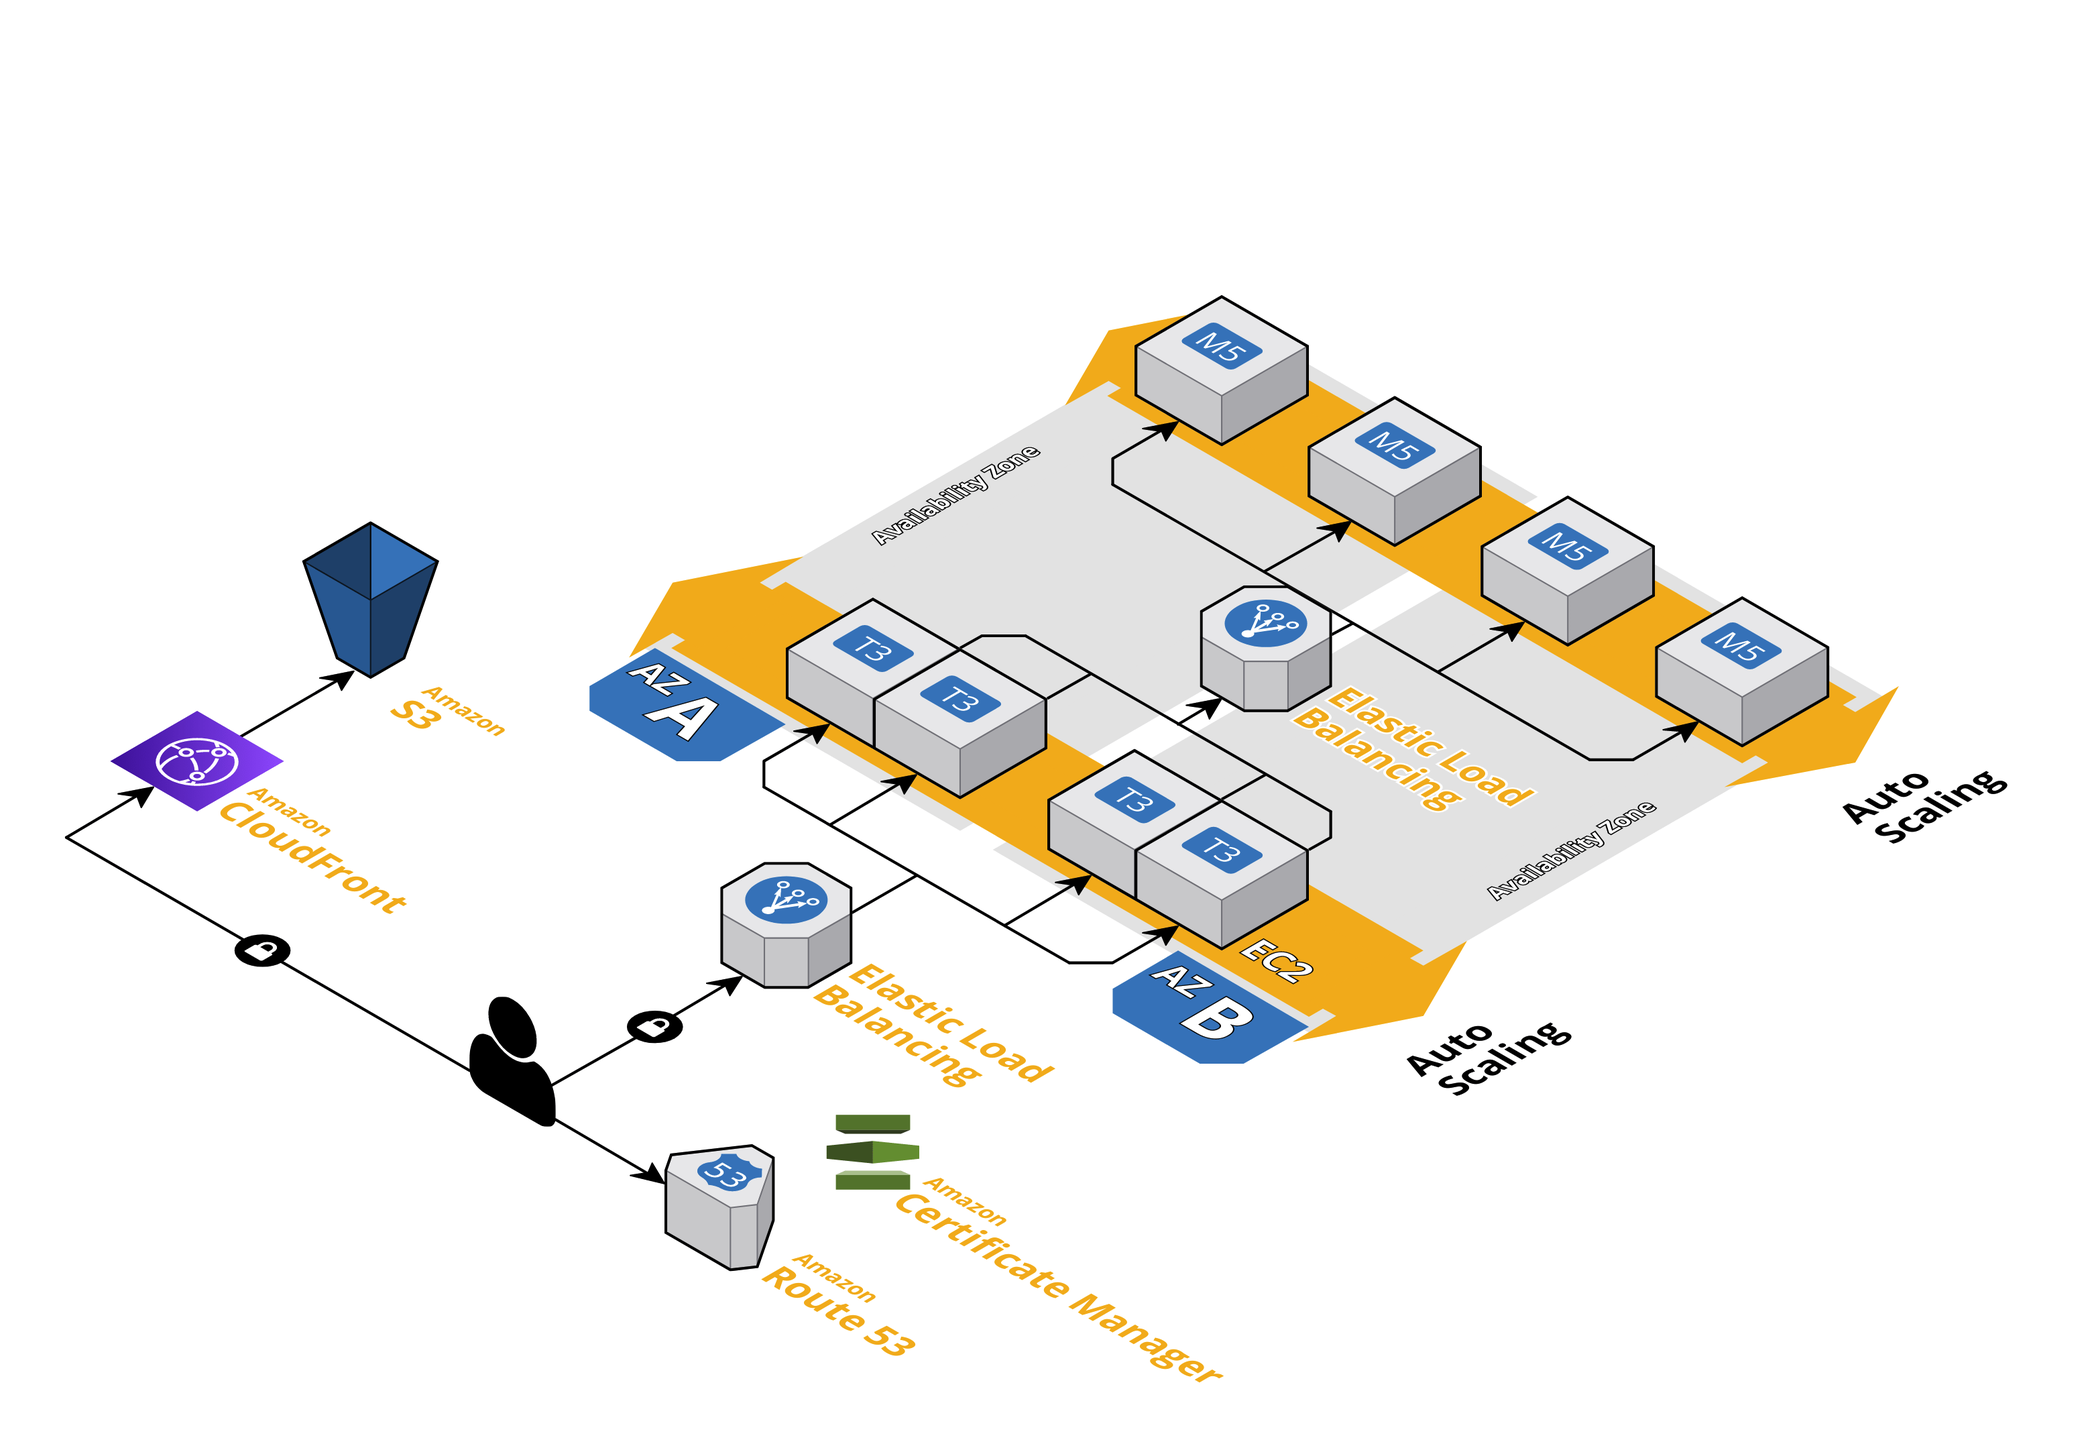
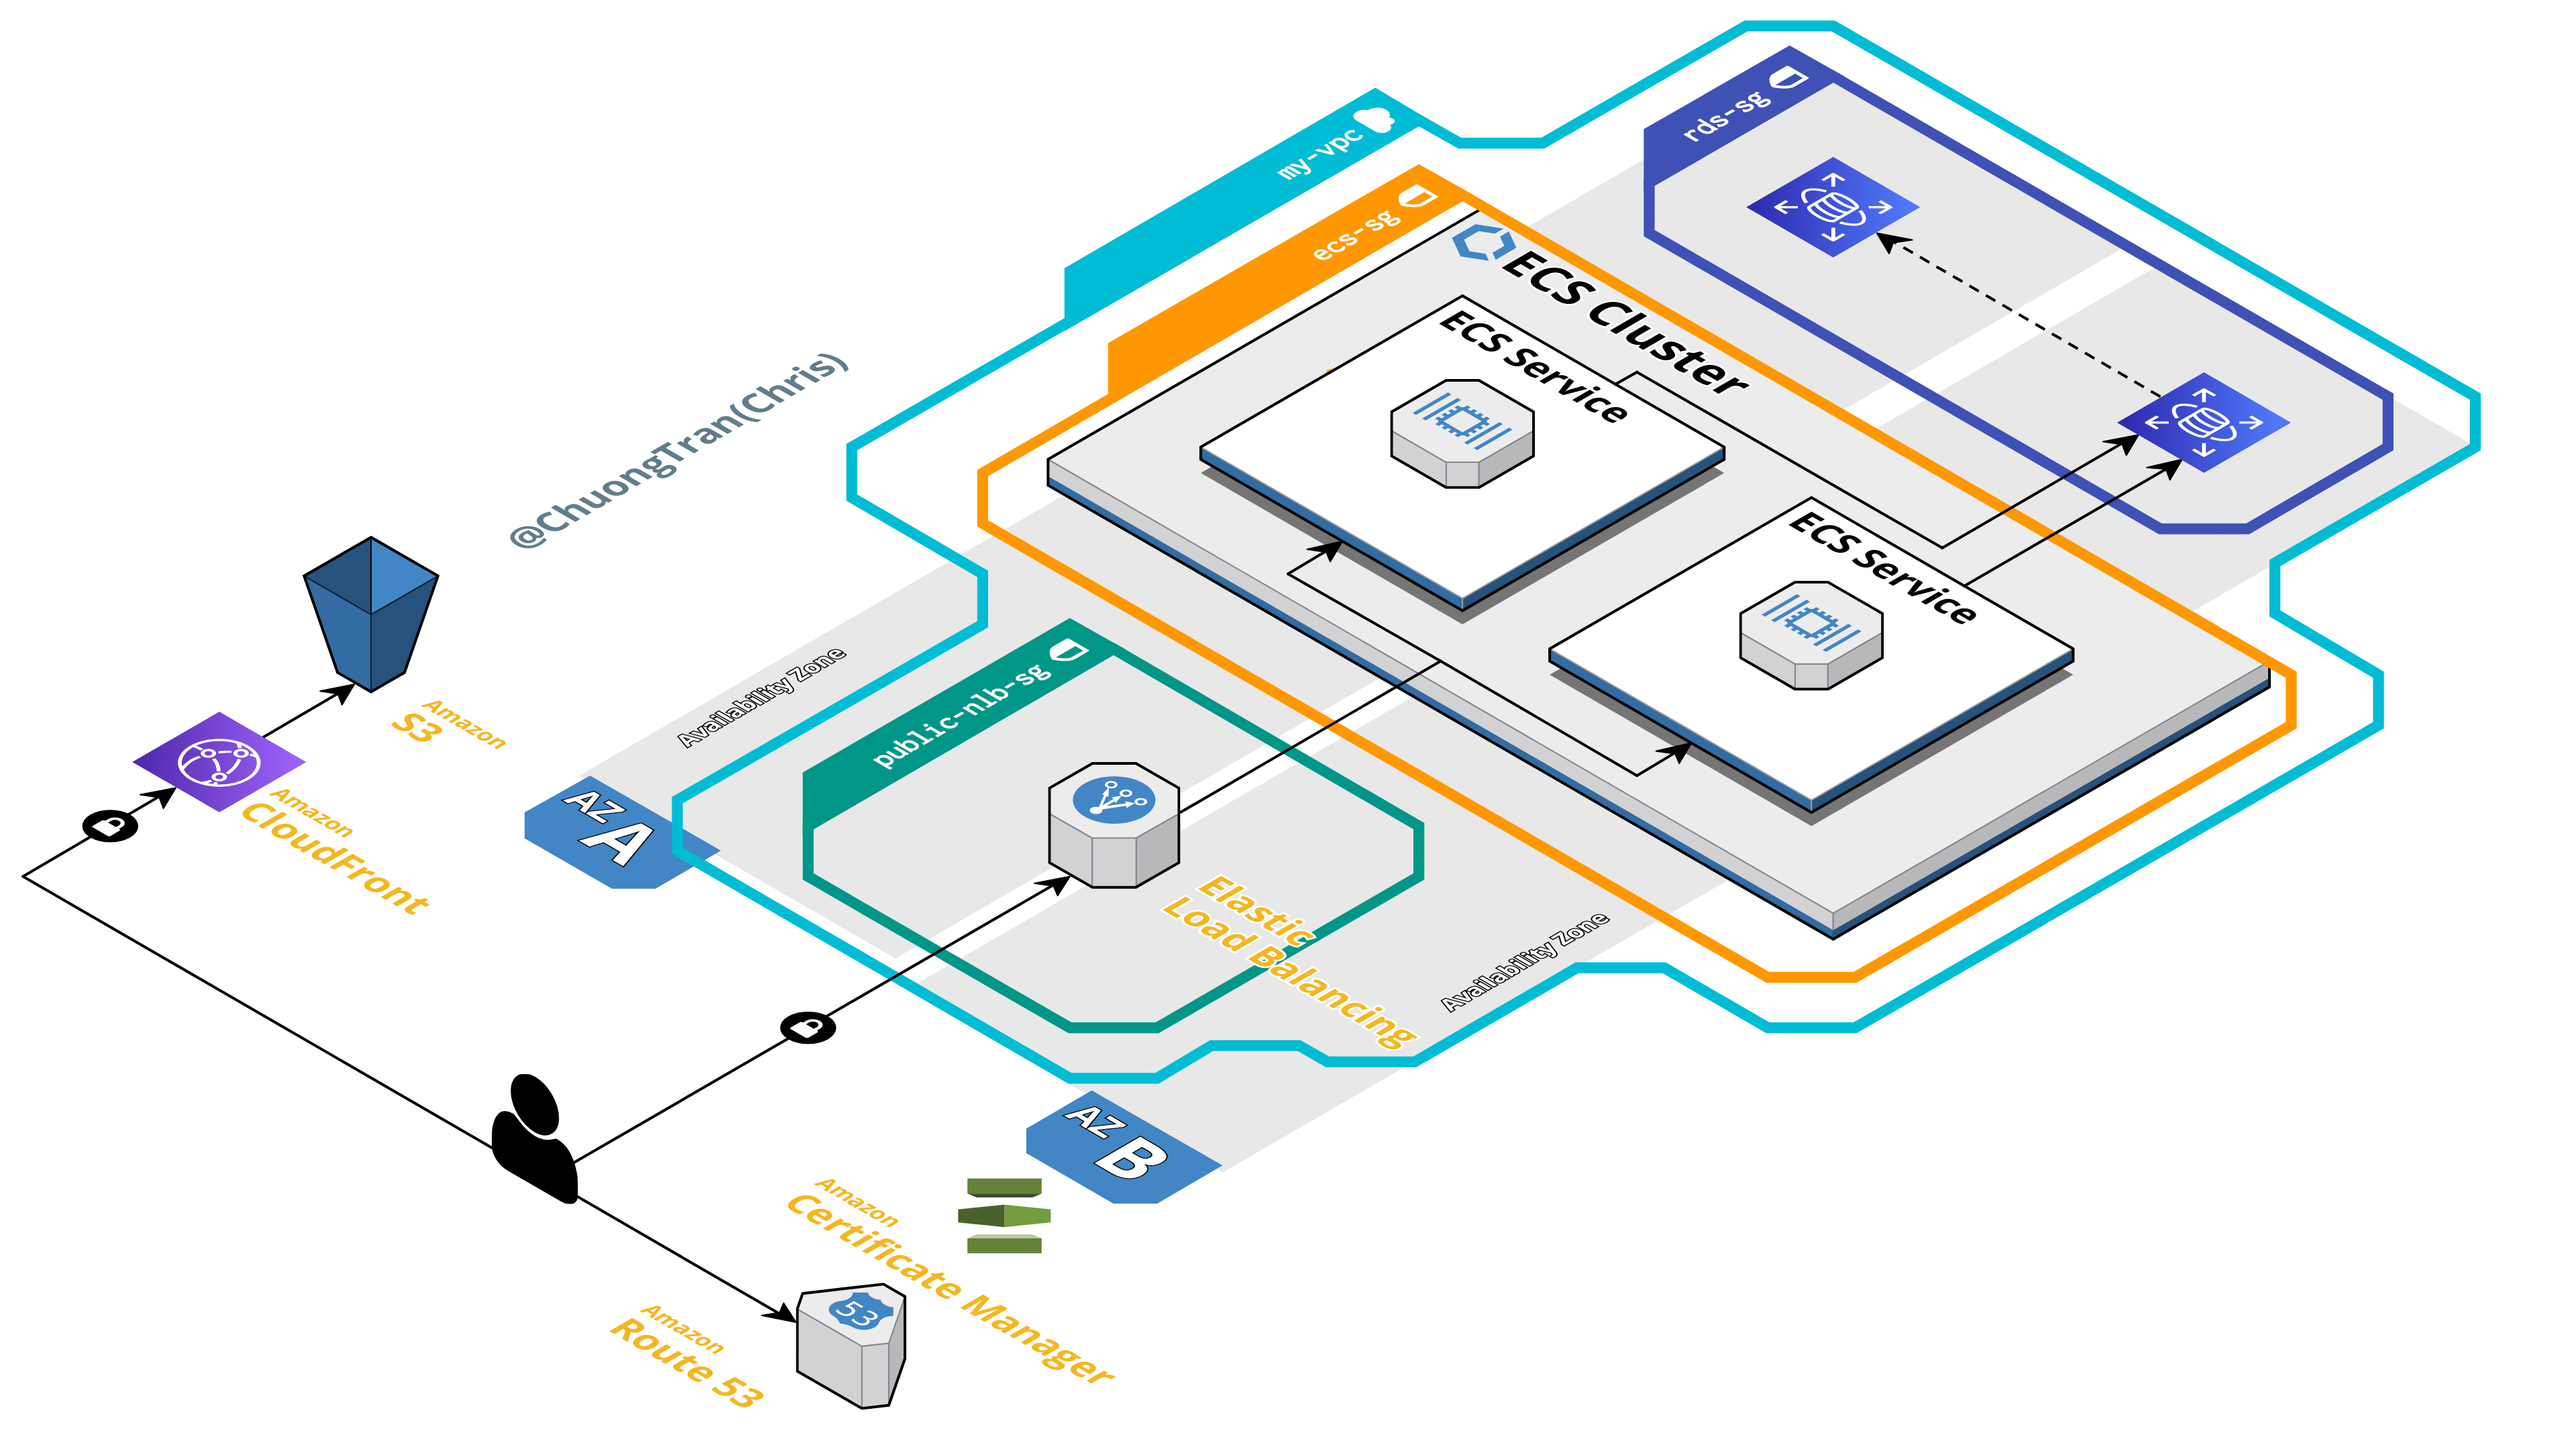
Update new diagram and services

Changed region(s): [[0.0311, 0.0, 0.9647, 0.9931], [0.1867, 0.6827, 0.3112, 0.8379], [0.0934, 0.6207, 0.1556, 0.6827]]

diff --git a/README.md b/README.md
@@ -14,6 +14,7 @@ These AWS services are supported by current version.
 | [SecurityGroup][sg] | Security Group        |
 | [S3][s3]            | S3                    |
 | [CloudFront][cf]    | CloudFront            |
+| [RDS][rds]          | RDS                   |
 | [EC2][ec2]          | EC2 Instance          |
 | [Route53][r53]      | Route 53              |
 
@@ -30,11 +31,12 @@ These components are shared by all environments.
 [aws]: https://aws.amazon.com/
 
 [vpc]: ./modules/vpc
-[sg]: ./modules/vpc
-[s3]: ./modules/vpc
-[cf]: ./modules/vpc
-[ec2]: ./modules/vpc
-[r53]: ./modules/vpc
+[sg]: ./modules/security-group
+[s3]: ./modules/s3
+[cf]: ./modules/cloudfront
+[rds]: ./modules/rds
+[ec2]: ./modules/ec2
+[r53]: ./modules/route-53
 
 [mp]: ./provider.tf
 [mm]: ./main.tf

diff --git a/modules/rds/README.md b/modules/rds/README.md
@@ -1,10 +1,10 @@
-# AWS Certificate Manager (ACM) module
+# Relational Database Service (RDS) module
 
 ### Components
 
 | Name              | Description      | Optional |
 | ----------------- | ---------------- | :------: |
-| [main.tf][m]      | ACM              |          |
+| [main.tf][m]      | RDS              |          |
 | [variables.tf][v] | Input variables  |          |
 | [outputs.tf][o]   | Output variables |          |
 
